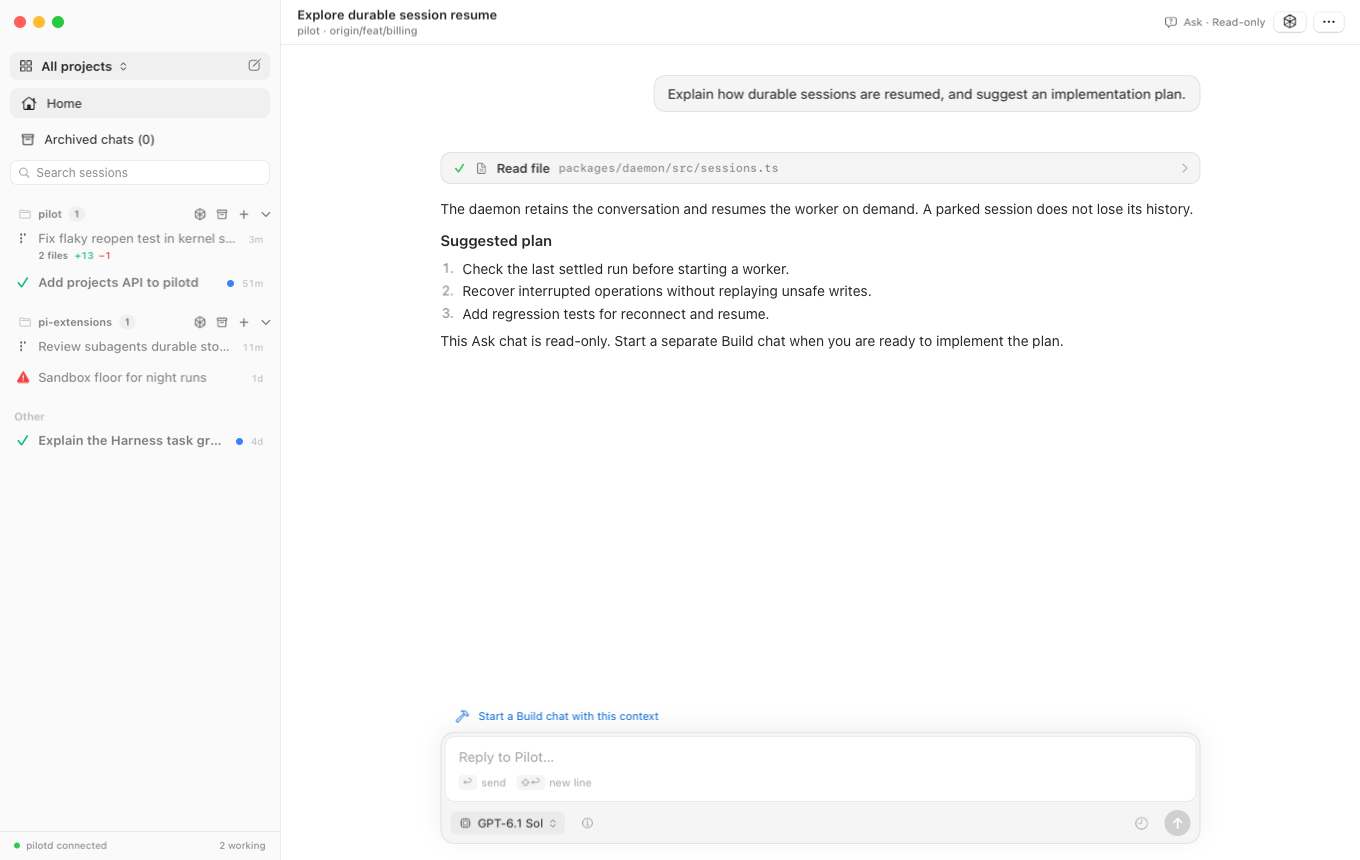
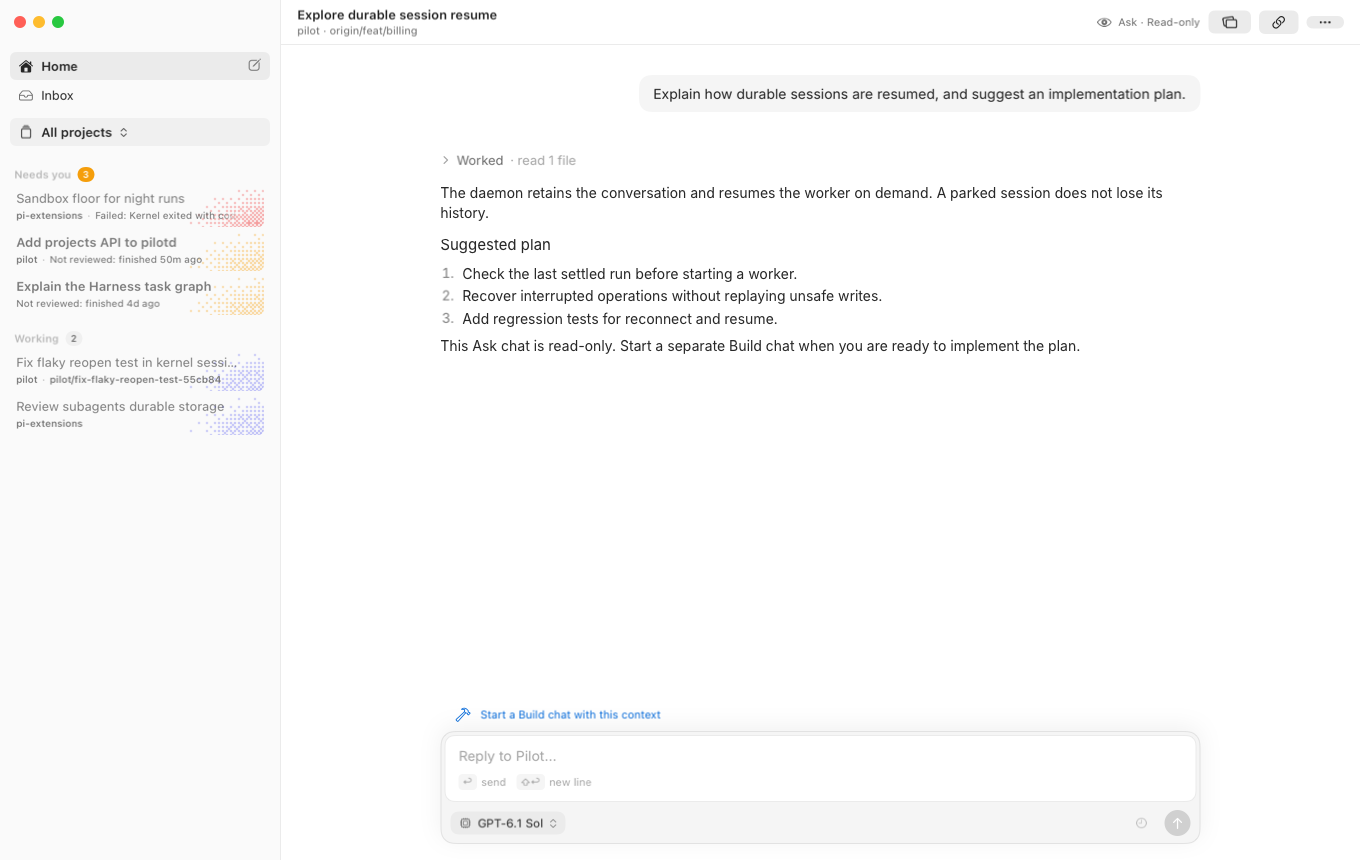
docs(readme): refresh native app screenshots

diff --git a/docs/screenshots/README.md b/docs/screenshots/README.md
@@ -5,28 +5,36 @@
 The main README uses three captures rendered from the current production SwiftUI views with synthetic
 fixtures, without connecting to a daemon or using live conversations:
 
-- `readme-build.png`: a Build chat, its task checklist and the Changes inspector.
+- `readme-build.png`: a Build chat, grouped tool activity, compact task progress and the Changes inspector,
+  cropped to omit the sidebar.
 - `readme-ask.png`: a read-only Ask chat with an implementation plan.
-- `readme-mission.png`: a mission's Tasks page in the native window.
+- `readme-mission.png`: a mission's Tasks page, cropped to the task list.
 
-The chat captures use the snapshot renderer's stand-in window header. The mission capture includes the
-real native toolbar. These are view-layout snapshots, not end-to-end agent or scrolling tests.
+The chat captures use the snapshot renderer's stand-in window header. The mission capture is content-only.
+These are view-layout snapshots, not end-to-end agent or scrolling tests. The crops avoid native selection
+and toolbar compositing artifacts in offscreen captures.
 
-Regenerate on macOS from the repository root:
+Regenerate on macOS from the repository root with an up-to-date installed app and ImageMagick (`magick`).
+No local build or live daemon is needed. Use `PILOT_APP` to select a different app bundle:
 
 ```sh
-apps/macos/scripts/build.sh
+pilot_app="${PILOT_APP:-/Applications/Pilot.app}"
 captures="$(mktemp -d /tmp/pilot-readme-screenshots.XXXXXX)"
 fixture_home="$(mktemp -d /tmp/pilot-readme-home.XXXXXX)"
-HOME="$fixture_home" CFFIXED_USER_HOME="$fixture_home" apps/macos/.build/debug/Pilot --snapshot "$captures"
-HOME="$fixture_home" CFFIXED_USER_HOME="$fixture_home" apps/macos/.build/debug/Pilot --snapshot "$captures" --missions-only
-cp "$captures/session-changes.png" docs/screenshots/readme-build.png
+open -n -W --env "HOME=$fixture_home" --env "CFFIXED_USER_HOME=$fixture_home" \
+  "$pilot_app" --args --snapshot "$captures"
+open -n -W --env "HOME=$fixture_home" --env "CFFIXED_USER_HOME=$fixture_home" \
+  "$pilot_app" --args --snapshot "$captures" --missions-only
+magick "$captures/session-changes.png" -crop 1220x860+280+0 +repage docs/screenshots/readme-build.png
 cp "$captures/ask-chat.png" docs/screenshots/readme-ask.png
-cp "$captures/mission-window-tasks-1360.png" docs/screenshots/readme-mission.png
+magick "$captures/mission-tasks.png" -crop 1000x560+0+0 +repage docs/screenshots/readme-mission.png
 ```
 
 Inspect all three images before publishing. Copy only these demo captures, never a live window capture
 containing private projects, conversations or credentials.
+
+Use `open` for the bundled app so SwiftUI creates its native window. Running the executable directly
+can render the offscreen chats but fail the mission window capture with "No native toolbar window available".
 
 ## Mission task phases
 

diff --git a/README.md b/README.md
@@ -11,10 +11,11 @@ daemon managing sessions independently of the SwiftUI app.
 
 [Get started](#get-started) · [Working with Pilot](#working-with-pilot) · [Development](#development)
 
-![A Build chat with its task checklist and code changes side by side](docs/screenshots/readme-build.png)
+![A Build chat with grouped tool activity, task progress and code changes side by side](docs/screenshots/readme-build.png)
 
-*Screenshots are rendered from current native views with demo data, not live conversations. Chat captures
-use a stand-in window header. See [screenshot notes](docs/screenshots/README.md) to regenerate them.*
+*Screenshots are rendered from native views with demo data, not live conversations. Chat captures use a
+stand-in window header; Build and mission captures are cropped to their working areas.
+See [screenshot notes](docs/screenshots/README.md) to regenerate them.*
 
 ## What you can do
 
